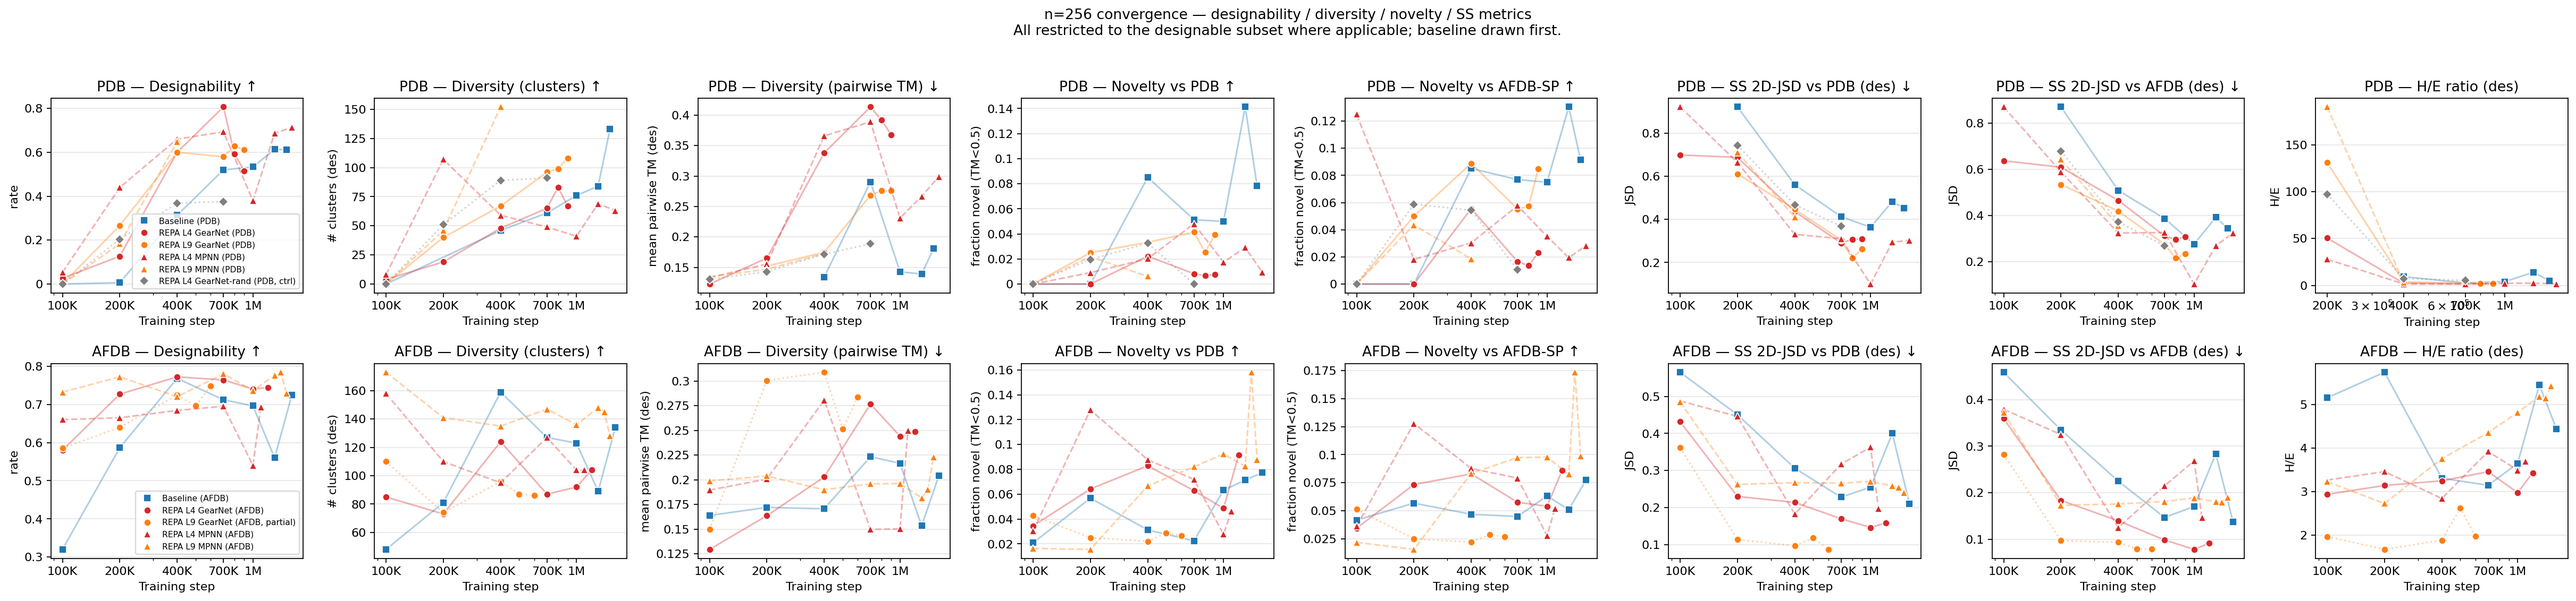
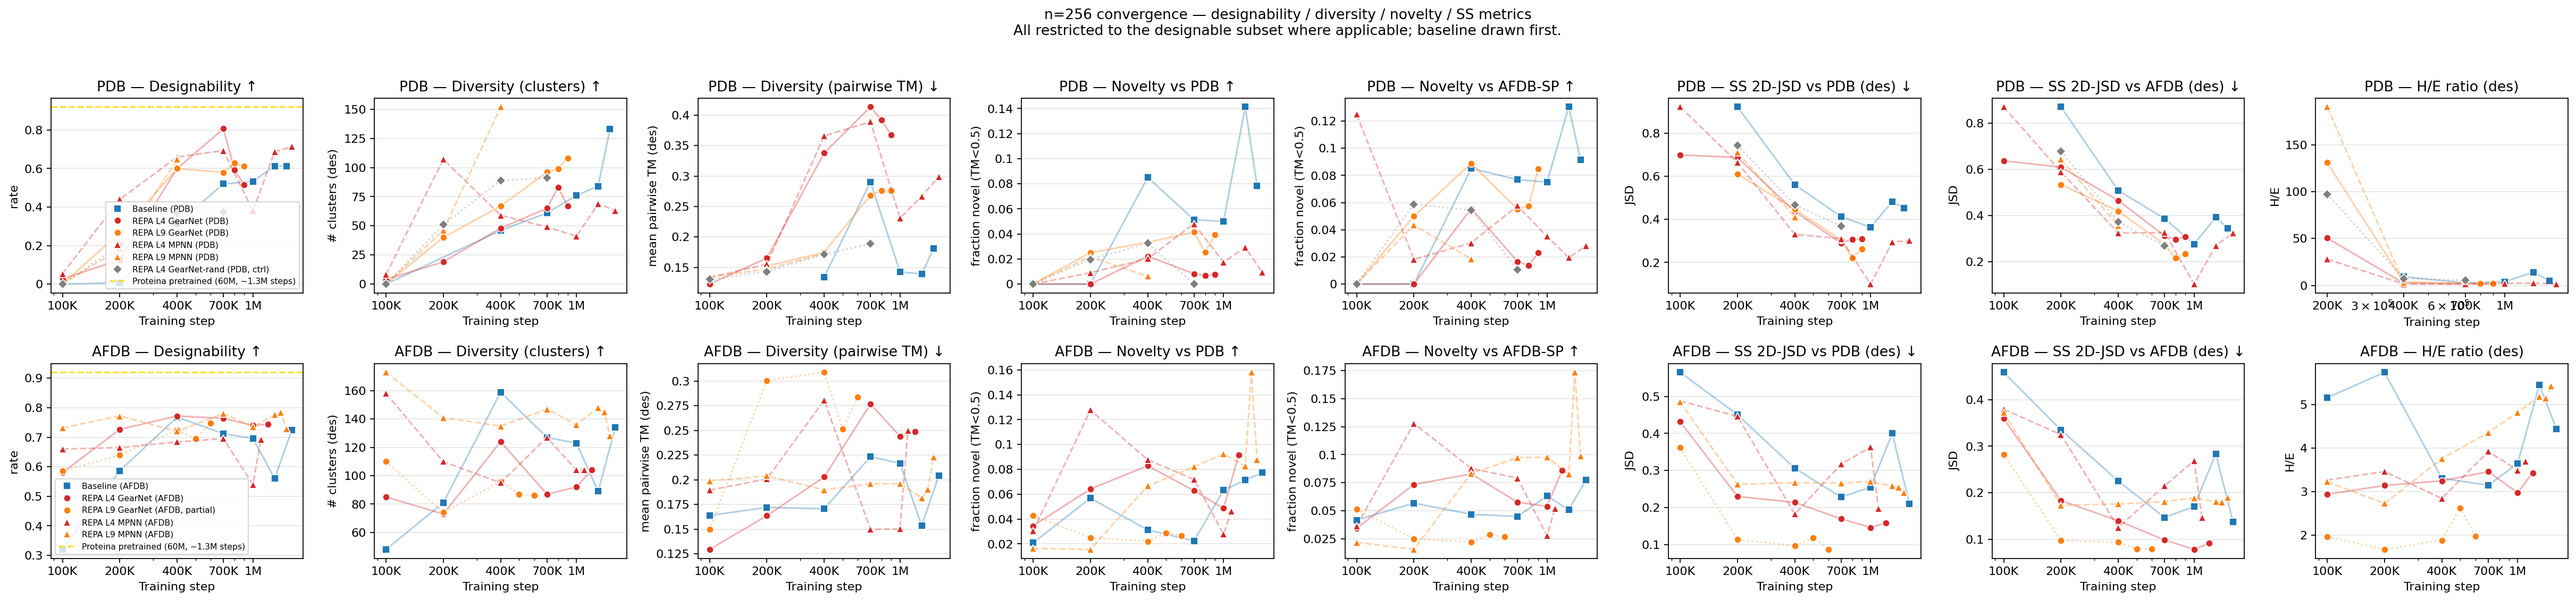
n256 convergence: extend pretrained Proteina overlay to remaining convergence plots
Same SHOW_PRETRAINED=True flag added to:
- plot_convergence_des{,_ci}.py (designability/diversity/novelty/SS panels)
- plot_repr_quality_over_training.py (CATH-{C,A,T} acc, IF top1, dihedral MAE)

Pretrained pulls from evaluation/proteina/lib/pretrained_overlay.py (same
helper as the earlier commit). On the representation convergence plot the
IF macro-F1 panel skips the overlay (no pretrained value for that metric);
CATH C/A/T levels are picked from the level filter on the panel definition.

Changed region(s): [[0.0, 0.6184, 0.1247, 0.9276], [0.0312, 0.2164, 0.1247, 0.4947]]

diff --git a/evaluation/proteina/representation/scripts/paper/plot_repr_quality_over_training.py b/evaluation/proteina/representation/scripts/paper/plot_repr_quality_over_training.py
@@ -21,6 +21,24 @@ from typing import Dict, List
 import matplotlib.pyplot as plt
 from matplotlib.ticker import FuncFormatter, LogLocator
 
+import sys
+
+_THIS = Path(__file__).resolve()
+sys.path.insert(0, str(_THIS.parents[5]))
+from evaluation.proteina.lib import pretrained_overlay  # noqa: E402
+
+# Overlay pretrained Proteina (NGC 60M, ~1.3M steps) as a horizontal dashed
+# reference line on each probe panel. Not step-comparable. Flip to False to
+# hide.
+SHOW_PRETRAINED = True
+
+# Map (probe_kind, metric_col) → pretrained_overlay rep key. cath panels are
+# handled separately because they need the level (C/A/T) too.
+_PRETRAINED_REP_KEY = {
+    ("inverse_folding", "if_top1_acc"): "if_top1_acc",
+    ("dihedral", "dih_mae_total_deg"): "dih_mae_total_deg",
+}
+
 
 def _humanize(v, _pos=None):
     av = abs(v)
@@ -200,6 +218,29 @@ def main() -> None:
             arrow = " ↑" if hb else " ↓"
             ax.set_title(f"{ds_name} — {title}{arrow}")
             _style_axes(ax)
+            if SHOW_PRETRAINED:
+                # Pick the right pretrained overlay key for this panel.
+                if probe_kind == "cath" and fval in ("C", "A", "T"):
+                    pre_key = f"cath_{fval}_top1"
+                else:
+                    pre_key = _PRETRAINED_REP_KEY.get((probe_kind, metric))
+                pre_val = (
+                    pretrained_overlay.load_rep(ds_name).get(pre_key)
+                    if pre_key
+                    else None
+                )
+                if pre_val is not None:
+                    ax.axhline(
+                        pre_val,
+                        color=pretrained_overlay.PRETRAINED_COLOR,
+                        linestyle="--",
+                        linewidth=1.4,
+                        alpha=0.85,
+                        label=pretrained_overlay.PRETRAINED_LABEL
+                        if col_i == 0
+                        else None,
+                        zorder=1,
+                    )
             if col_i == 0:
                 ax.legend(loc="best", fontsize=7)
 

diff --git a/evaluation/proteina/generation/scripts/paper/plot_convergence_des.py b/evaluation/proteina/generation/scripts/paper/plot_convergence_des.py
@@ -23,6 +23,17 @@ from typing import Dict, List
 import matplotlib.pyplot as plt
 from matplotlib.ticker import FuncFormatter, LogLocator
 
+import sys
+
+_THIS = Path(__file__).resolve()
+sys.path.insert(0, str(_THIS.parents[5]))
+from evaluation.proteina.lib import pretrained_overlay  # noqa: E402
+
+# Overlay pretrained Proteina (NGC 60M, ~1.3M steps) as a horizontal dashed
+# reference line on metrics it was evaluated for. Not step-comparable. Flip
+# to False to hide.
+SHOW_PRETRAINED = True
+
 
 def _humanize(v, _pos=None):
     av = abs(v)
@@ -217,6 +228,20 @@ def main() -> None:
                 arrow = " ↑" if higher_better else " ↓"
             ax.set_title(f"{ds_name} — {title}{arrow}")
             _style_axes(ax)
+            if SHOW_PRETRAINED and isinstance(metric, str):
+                pre_val = pretrained_overlay.load_gen().get(metric)
+                if pre_val is not None:
+                    ax.axhline(
+                        pre_val,
+                        color=pretrained_overlay.PRETRAINED_COLOR,
+                        linestyle="--",
+                        linewidth=1.4,
+                        alpha=0.85,
+                        label=pretrained_overlay.PRETRAINED_LABEL
+                        if col_i == 0
+                        else None,
+                        zorder=1,
+                    )
             if col_i == 0:
                 ax.legend(loc="best", fontsize=7)
 

diff --git a/evaluation/proteina/generation/scripts/paper/plot_convergence_des_ci.py b/evaluation/proteina/generation/scripts/paper/plot_convergence_des_ci.py
@@ -18,6 +18,16 @@ from typing import Dict, List
 import matplotlib.pyplot as plt
 from matplotlib.ticker import FuncFormatter, LogLocator
 
+import sys
+
+_THIS = Path(__file__).resolve()
+sys.path.insert(0, str(_THIS.parents[5]))
+from evaluation.proteina.lib import pretrained_overlay  # noqa: E402
+
+# Overlay pretrained Proteina (NGC 60M, ~1.3M steps) as a horizontal dashed
+# reference line. Not step-comparable to our runs. Flip to False to hide.
+SHOW_PRETRAINED = True
+
 
 def _humanize(v, _pos=None):
     av = abs(v)
@@ -259,6 +269,20 @@ def main() -> None:
                 arrow = " ↑" if higher_better else " ↓"
             ax.set_title(f"{ds_name} — {title}{arrow}")
             _style_axes(ax)
+            if SHOW_PRETRAINED and isinstance(metric, str):
+                pre_val = pretrained_overlay.load_gen().get(metric)
+                if pre_val is not None:
+                    ax.axhline(
+                        pre_val,
+                        color=pretrained_overlay.PRETRAINED_COLOR,
+                        linestyle="--",
+                        linewidth=1.4,
+                        alpha=0.85,
+                        label=pretrained_overlay.PRETRAINED_LABEL
+                        if col_i == 0
+                        else None,
+                        zorder=1,
+                    )
             if col_i == 0:
                 ax.legend(loc="best", fontsize=7)
 
